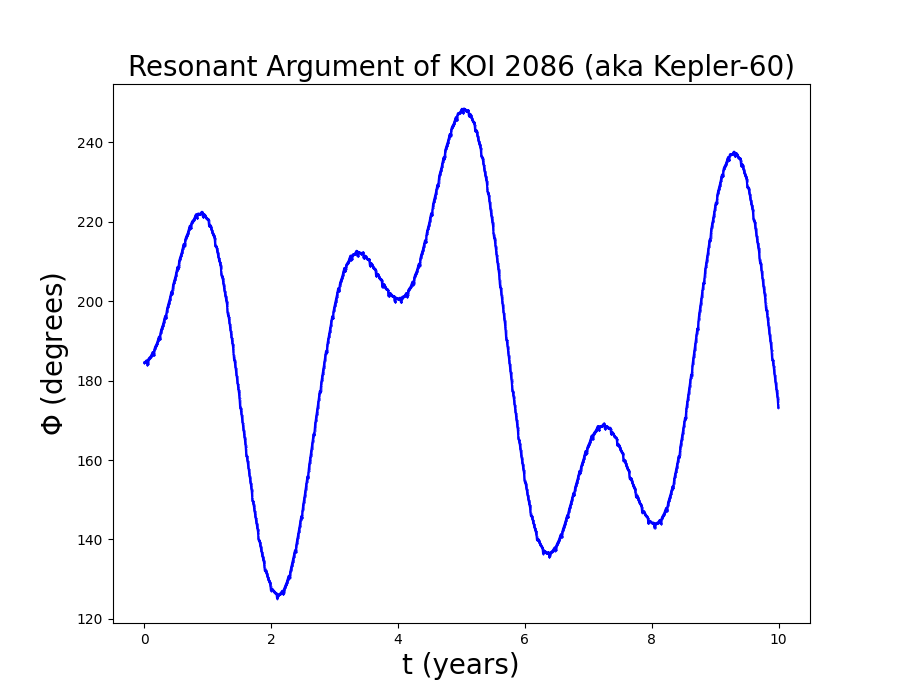
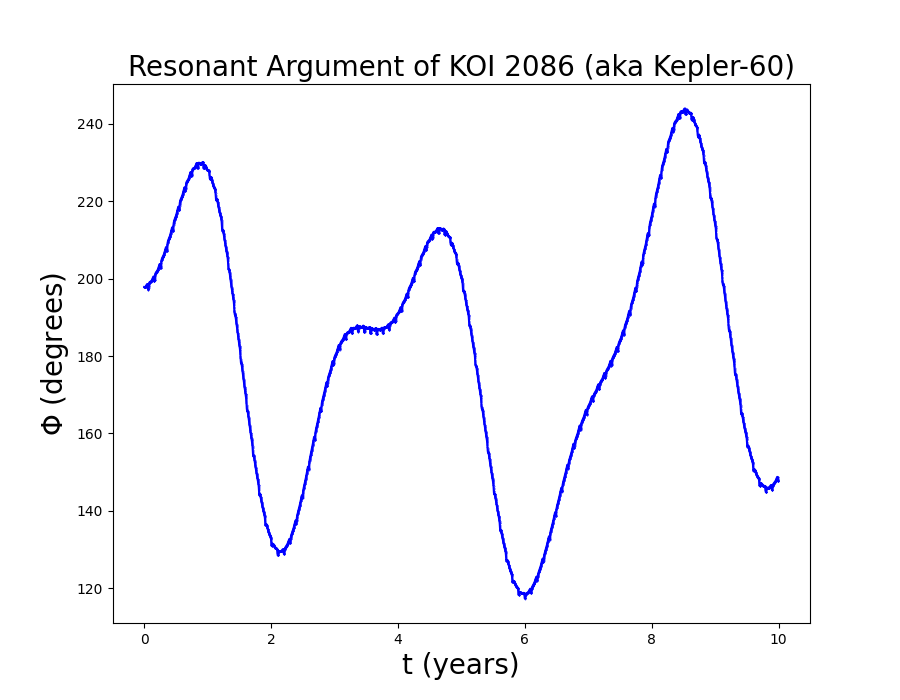
transferring files

diff --git a/Rebound707.py b/Rebound707.py
@@ -15,22 +15,22 @@ print(sim.G)
 #star/COM
 sim.add(m=1.21)
 #707.05 //
-sim.add(m=(1.773**3)/332946,P=5.66811063,theta=1.023652865719841,inc=89.3911*pi/180)
+sim.add(m=(2.69*(1.773**0.93))/332946,P=5.66811063,theta=1.023652865719841,inc=89.3911*pi/180)
 #707.04 //
-sim.add(m=(2.72**3)/332946,P=13.1755712,theta=2.392407912640167,inc=89.7541*pi/180)
+sim.add(m=(2.69*(2.72**0.93))/332946,P=13.1755712,theta=2.392407912640167,inc=89.7541*pi/180)
 #707.01 //
-sim.add(m=(4.558**3)/332946, P=21.77566845,theta=1.1804921878195955,inc=89.8461*pi/180)
+sim.add(m=(2.69*(4.558**0.93))/332946, P=21.77566845,theta=1.1804921878195955,inc=89.8461*pi/180)
 #707.03 //
-sim.add(m=(3.413**3)/332946, P=31.78484972,theta=2.344880622091399,inc=89.8699*pi/180)
+sim.add(m=(2.69*(3.413**0.93))/332946, P=31.78484972,theta=2.344880622091399,inc=89.8699*pi/180)
 #707.02 //
-sim.add(m=(3.767**3)/332946, P=41.02789654,theta=2.752262019451795,inc=89.859*pi/180)
+sim.add(m=(2.69*(3.767**0.93))/332946, P=41.02789654,theta=2.752262019451795,inc=89.859*pi/180)
 
 
 os = sim.orbits()
 print("n_i (in rad/days) = %6.3f, %6.3f, %6.3f" % (os[0].n,os[1].n,os[2].n))
 print("P_i (in days)     = %6.3f, %6.3f, %6.3f" % (os[0].P,os[1].P,os[2].P))
 
-Tfinal= 10*365
+Tfinal= 20*365
 Nout = 1000 # number of printed out timesteps.
 
 phi = zeros(Nout)
@@ -55,7 +55,7 @@ ax.plot(times/365.2425,phi_degrees, 'b', marker=".", markersize=.5)
 ax.set_xlabel("t (years)", fontsize=20)
 ax.set_ylabel("$\phi$ (degrees)", fontsize=20)
 ax.set_title("Resonant Argument of KOI 707 (aka Kepler-33)",fontsize=20)
-ax.annotate("p = 2, q = 4",xy=(90,68))
+ax.annotate("p = 2, q = 4",xy=(18,66))
 #plt.figtext(0.05, 0.01, "2: This is a 5 planet system, this graph is for $\lambda_1$ = KOI 707.01, $\lambda_2$ = KOI 707.03, and $\lambda_3$ = KOI 707.02", ha="left", fontsize=8)
 plt.savefig("phichart707_long.png")
 

diff --git a/Rebound707_2.py b/Rebound707_2.py
@@ -1,0 +1,61 @@
+import rebound
+from numpy import *
+import matplotlib.pyplot as plt
+
+sim = rebound.Simulation()
+
+Mearth = 1.0/332940.0
+GMsun = 1.3271244e20 # [m3 s-2]
+au = 149597870700.0 # [m]
+G = GMsun*(86400**2)/au**3 # au, days, Msun
+
+sim.units = ('days','AU','Msun')
+print(sim.G)
+
+#star/COM
+sim.add(m=1.26)
+#707.05 //
+sim.add(m=(2.69*(1.773**0.93))/332946,P=5.66816,T=64.887)
+#707.04 //
+sim.add(m=(2.69*(2.72**0.93))/332946,P=13.17552,T=76.679)
+#707.01 //
+sim.add(m=(2.69*(4.558**0.93))/332946, P=21.77574,T=122.641)
+#707.03 //
+sim.add(m=0.0000161, P=31.7852,T=68.859)
+#707.02 //
+sim.add(m=0.0000198, P=41.0274,T=105.604)
+
+
+os = sim.orbits()
+print("n_i (in rad/days) = %6.3f, %6.3f, %6.3f" % (os[0].n,os[1].n,os[2].n))
+print("P_i (in days)     = %6.3f, %6.3f, %6.3f" % (os[0].P,os[1].P,os[2].P))
+
+Tfinal= 20*365
+Nout = 1000 # number of printed out timesteps.
+
+phi = zeros(Nout)
+l1,l2,l3 = zeros(Nout), zeros(Nout), zeros(Nout)
+
+p,q = 2, 4
+
+times = linspace(0.,Tfinal,Nout)
+for i,time in enumerate(times):
+    sim.integrate(time)
+    l1[i],l2[i],l3[i] = sim.particles[3].l,sim.particles[4].l,sim.particles[5].l
+    phi[i] = p*l1[i]-(p+q)*l2[i]+q*l3[i]
+sim.move_to_com()
+
+#radian to degree conversion
+phi_degrees = (phi*180/pi + 180) % 360 - 180
+print(phi_degrees)
+
+fig = plt.figure(figsize=(9,7))
+ax = plt.subplot(111)
+ax.plot(times/365.2425,phi_degrees, 'b', marker=".", markersize=.5)
+ax.set_xlabel("t (years)", fontsize=20)
+ax.set_ylabel("$\phi$ (degrees)", fontsize=20)
+ax.set_title("Resonant Argument of KOI 707 (aka Kepler-33)",fontsize=20)
+ax.annotate("p = 2, q = 4",xy=(18,66))
+#plt.figtext(0.05, 0.01, "2: This is a 5 planet system, this graph is for $\lambda_1$ = KOI 707.01, $\lambda_2$ = KOI 707.03, and $\lambda_3$ = KOI 707.02", ha="left", fontsize=8)
+plt.savefig("phichart707_long.png")
+

diff --git a/Rebound2086.py b/Rebound2086.py
@@ -15,13 +15,13 @@ print(sim.G)
 #star/COM
 sim.add(m=1)
 #2086.01 // Start with innermost planet, go outwards
-sim.add(m=1.2098813600048056e-05,P=7.13295045,T=9.419586,e=0.027303123741573964)
+sim.add(m=(2.69 * (1.734**0.93))/332946,P=7.13295045,T=9.419586,e=0.027303123741573964)
 #2086.02 // Period is in days, convert to years (Divide by 365.2425)
-sim.add(m=1.1053898600348412e-05,P=8.91897737,T=6.599425,e=0.04989897203081442)
+sim.add(m=(2.69 * (1.943**0.93))/332946,P=8.91897737,T=6.599425,e=0.04989897203081442)
 #2086.03 // mass ≈ R_p ^ 3 in Earth masses if radius of planet > 1.7 earth radii, then divide by 332946 to convert to solar masses
-sim.add(m=1.1743689553673334e-05, P=11.89824703,T=12.158593,e=0.020581611655147415)
+sim.add(m=(2.69 * (1.756**0.93))/332946, P=11.89824703,T=12.158593,e=0.020581611655147415)
 #2086.04
-sim.add(m=(1.836**3)/332946,P=335.5198537,T=-170.805542)
+sim.add(m=(2.69 * (1.836**0.93))/332946,P=335.5198537,T=-170.805542)
 
 os = sim.orbits()
 print("n_i (in rad/days) = %6.3f, %6.3f, %6.3f" % (os[0].n,os[1].n,os[2].n))

diff --git a/Rebound2086_2.py b/Rebound2086_2.py
@@ -62,7 +62,7 @@ ax.plot(times/365.2425,phi_degrees, 'b', marker=".", markersize=.5)
 ax.set_xlabel("t (years)", fontsize=20)
 ax.set_ylabel("$\Phi$ (degrees)", fontsize=20)
 ax.set_title("Resonant Argument of KOI 2086 (aka Kepler-60)",fontsize=20)
-ax.annotate("p = 4, q = 4",xy=(9,360))
+ax.annotate("p = 4, q = 4",xy=(9,250))
 #ax.legend(fontsize=24)
 plt.savefig("phichart2086.png")
 
